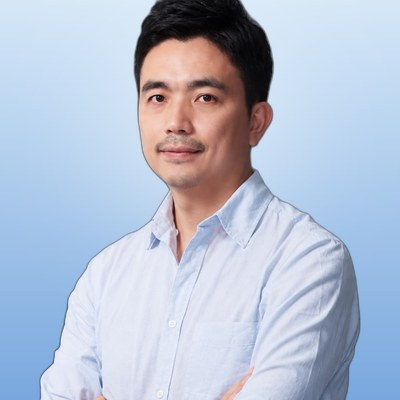
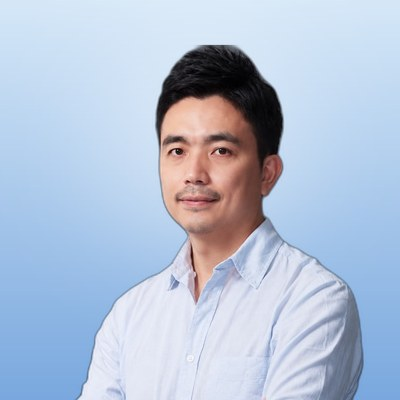
Tiger 照片重裁：頭頂留空，不貼上框

diff --git a/operators/index.html b/operators/index.html
@@ -271,7 +271,7 @@ button{cursor:pointer;border:none;background:none;font-family:inherit}
           <div class="adv-org" data-en="91APP" data-zh="91APP">91APP</div>
           <div class="adv-role" data-en="SVP" data-zh="資深副總經理">SVP</div>
         </div>
-        <div class="adv-av"><img src="../Team/Tiger.jpg?v=2" alt="Tiger Lee" loading="lazy" width="78" height="78"></div>
+        <div class="adv-av"><img src="../Team/Tiger.jpg?v=3" alt="Tiger Lee" loading="lazy" width="78" height="78"></div>
         <div class="adv-name">Tiger Lee</div>
         <div class="adv-vert">RetailTech</div>
         <a href="https://www.linkedin.com/in/tiger-lee-96b3b1183/" target="_blank" rel="noopener" class="adv-li"><svg viewBox="0 0 24 24"><path d="M19 3a2 2 0 0 1 2 2v14a2 2 0 0 1-2 2H5a2 2 0 0 1-2-2V5a2 2 0 0 1 2-2h14m-.5 15.5v-5.3a3.26 3.26 0 0 0-3.26-3.26c-.85 0-1.84.52-2.32 1.3v-1.11h-2.79v8.37h2.79v-4.93c0-.77.62-1.4 1.39-1.4a1.4 1.4 0 0 1 1.4 1.4v4.93h2.79M6.88 8.56a1.68 1.68 0 0 0 1.68-1.68c0-.93-.75-1.69-1.68-1.69a1.69 1.69 0 0 0-1.69 1.69c0 .93.76 1.68 1.69 1.68m1.39 9.94v-8.37H5.5v8.37h2.77z"/></svg><span>LinkedIn</span></a>

diff --git a/index.html b/index.html
@@ -1285,7 +1285,7 @@ footer{background:#060F1E;padding:72px 0 0}
           <div class="adv-org" data-en="91APP" data-zh="91APP">91APP</div>
           <div class="adv-role" data-en="SVP" data-zh="資深副總經理">SVP</div>
         </div>
-        <div class="adv-av"><img src="Team/Tiger.jpg?v=2" alt="Tiger Lee" loading="lazy" width="78" height="78"></div>
+        <div class="adv-av"><img src="Team/Tiger.jpg?v=3" alt="Tiger Lee" loading="lazy" width="78" height="78"></div>
         <div class="adv-name">Tiger Lee</div>
         <div class="adv-vert">RetailTech</div>
         <a href="https://www.linkedin.com/in/tiger-lee-96b3b1183/" target="_blank" rel="noopener" class="adv-li"><svg viewBox="0 0 24 24"><path d="M19 3a2 2 0 0 1 2 2v14a2 2 0 0 1-2 2H5a2 2 0 0 1-2-2V5a2 2 0 0 1 2-2h14m-.5 15.5v-5.3a3.26 3.26 0 0 0-3.26-3.26c-.85 0-1.84.52-2.32 1.3v-1.11h-2.79v8.37h2.79v-4.93c0-.77.62-1.4 1.39-1.4a1.4 1.4 0 0 1 1.4 1.4v4.93h2.79M6.88 8.56a1.68 1.68 0 0 0 1.68-1.68c0-.93-.75-1.69-1.68-1.69a1.69 1.69 0 0 0-1.69 1.69c0 .93.76 1.68 1.69 1.68m1.39 9.94v-8.37H5.5v8.37h2.77z"/></svg><span>LinkedIn</span></a>
